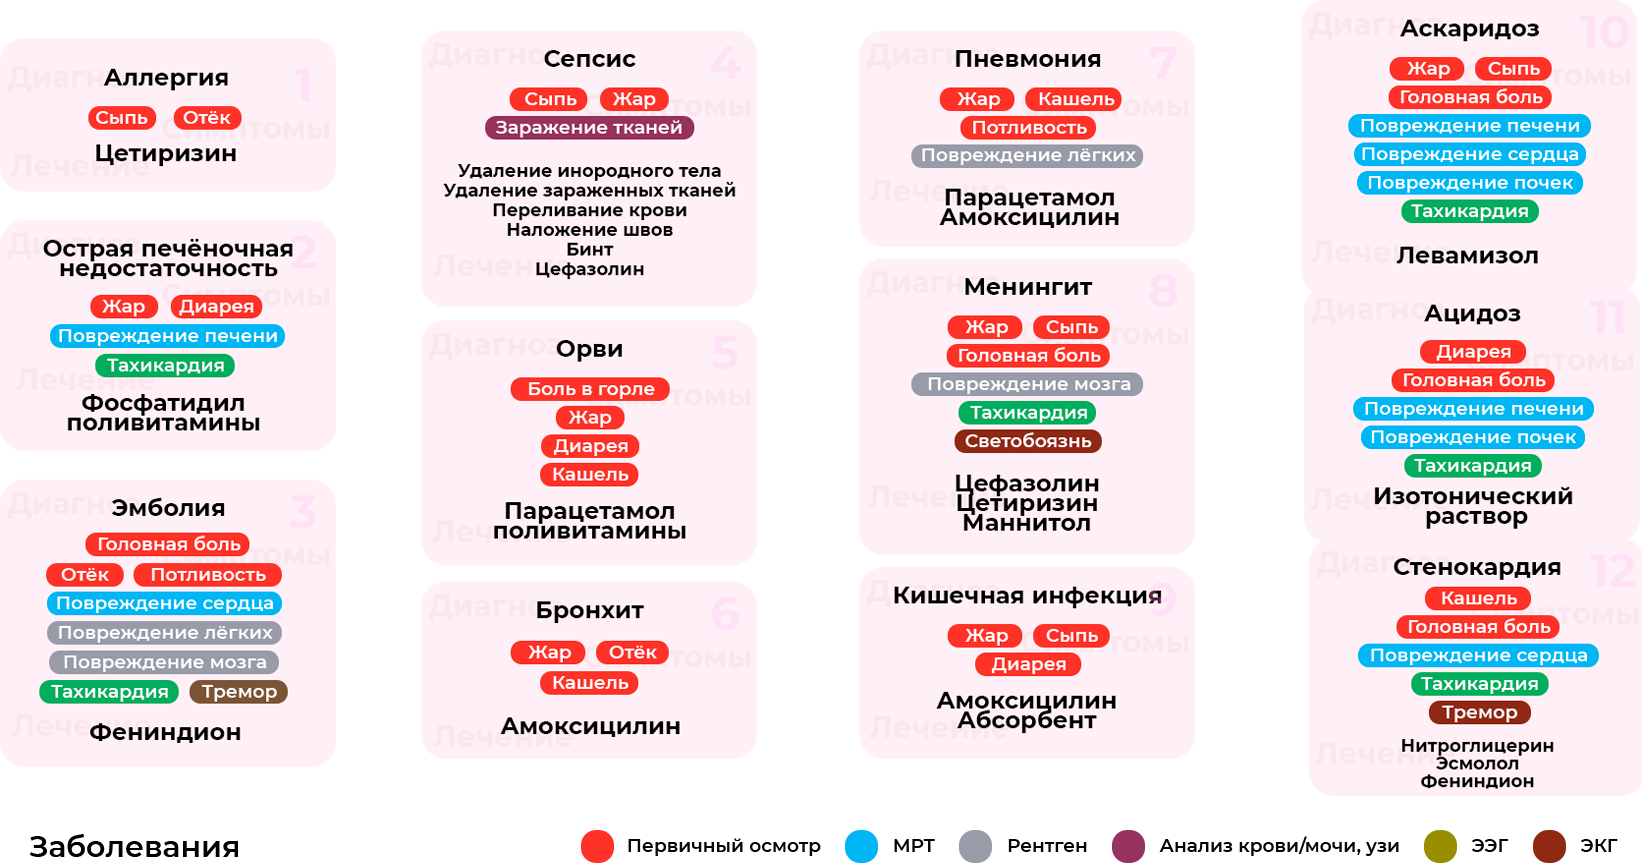
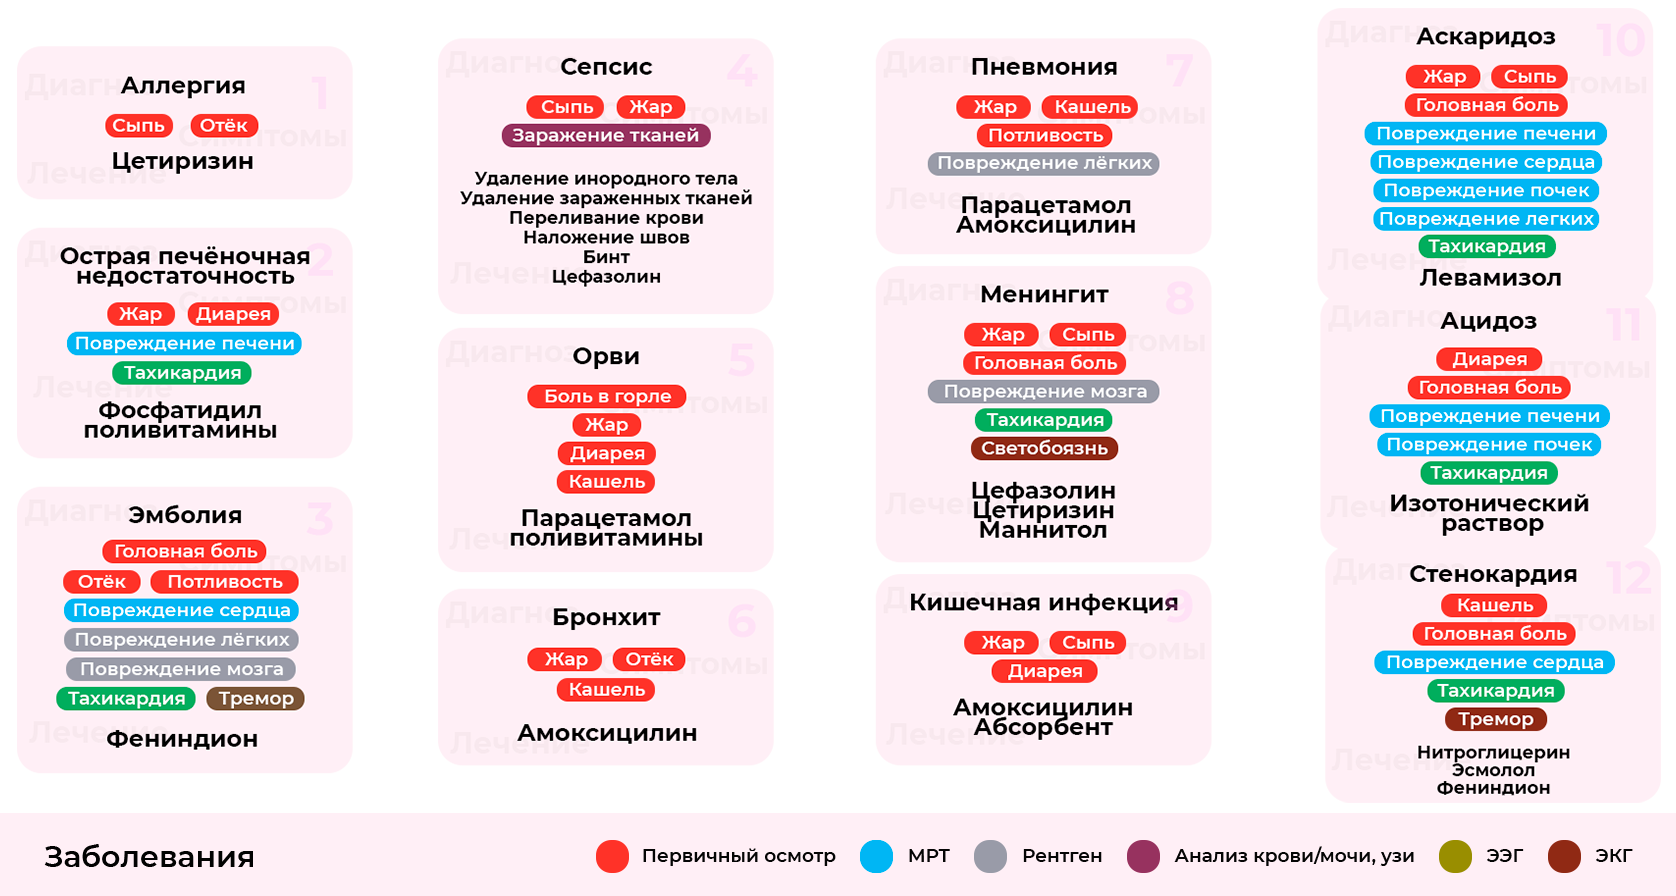
rfr add Select

diff --git a/js/hud.js b/js/hud.js
@@ -101,7 +101,22 @@ function initTime(hour,minute)
     time = `${currentHours <=9 ? '0' + currentHours : currentHours}:${currentMinutes <=9 ? '0' + currentMinutes : currentMinutes}`;
     $('.hud-time').text(time);
 };
-let keyList = '';
+let keyList = [
+    { keyCode: 73, title: "I, i, Ш, ш", action: 'Инвентарь', active: false },
+    { keyCode: 79, title: "O, o, Щ, щ", action: 'Рация', active: false },
+    { keyCode: 78, title: "N, n, Т, т", action: 'Планшет', active: false },
+    { keyCode: 77, title: "M, m, Ь, ь", action: 'Смартфон', active: false },
+    { keyCode: 113, title: "F2", action: 'Остановить анимацию', active: false },
+    { keyCode: 118, title: "F7", action: 'Мышка (Показать/Скрыть)', active: false },
+    { keyCode: 76, title: "L, l, Д, д", action: 'Анимации', active: false },
+    { keyCode: 75, title: "K, k, Л, л", action: 'Транспорт', active: false },
+    { keyCode: 74, title: "J, j, О, о", action: 'Поднять руки', active: false },
+    { keyCode: 88, title: "X, x, Ч, ч", action: 'Микрофон общий', active: false },
+    { keyCode: 71, title: "G, g, П, п", action: 'Взаимодействие', active: false },
+    { keyCode: 17, title: "Control", action: 'Выделение', active: false },
+    { keyCode: 90, title: "Z, z, Я, я", action: 'Микрофон рации', active: false },
+    { keyCode: 66, title: "B, b, И, и", action: 'Указать', active: false }
+];
 function pushKeyList(obj)
 {
     keyList = JSON.parse(obj);

diff --git a/js/menu.js b/js/menu.js
@@ -150,7 +150,9 @@ let menu = new Vue({
             { keyCode: 88, title: "X, x, Ч, ч", action: 'Микрофон общий', active: false },
             { keyCode: 71, title: "G, g, П, п", action: 'Взаимодействие', active: false },
             { keyCode: 17, title: "Control", action: 'Выделение', active: false },
-            { keyCode: 90, title: "Z, z, Я, я", action: 'Микрофон рации', active: false }
+            { keyCode: 90, title: "Z, z, Я, я", action: 'Микрофон рации', active: false },
+            { keyCode: 66, title: "B, b, И, и", action: 'Указать', active: false }
+            
         ],
         showKeySettingsMenu: function(keyCode, action, index) {
             menu.keyChangeSettingsShow = true;   
